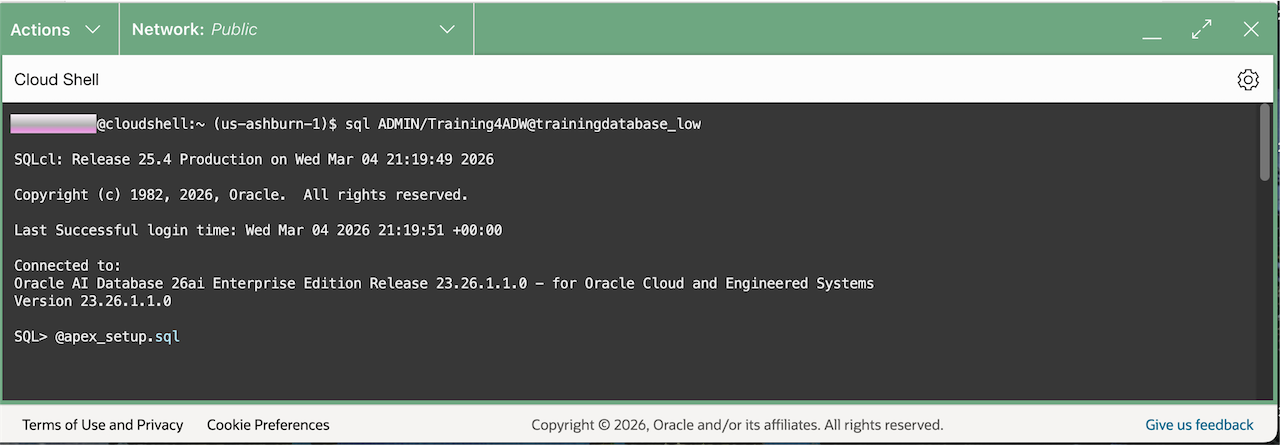
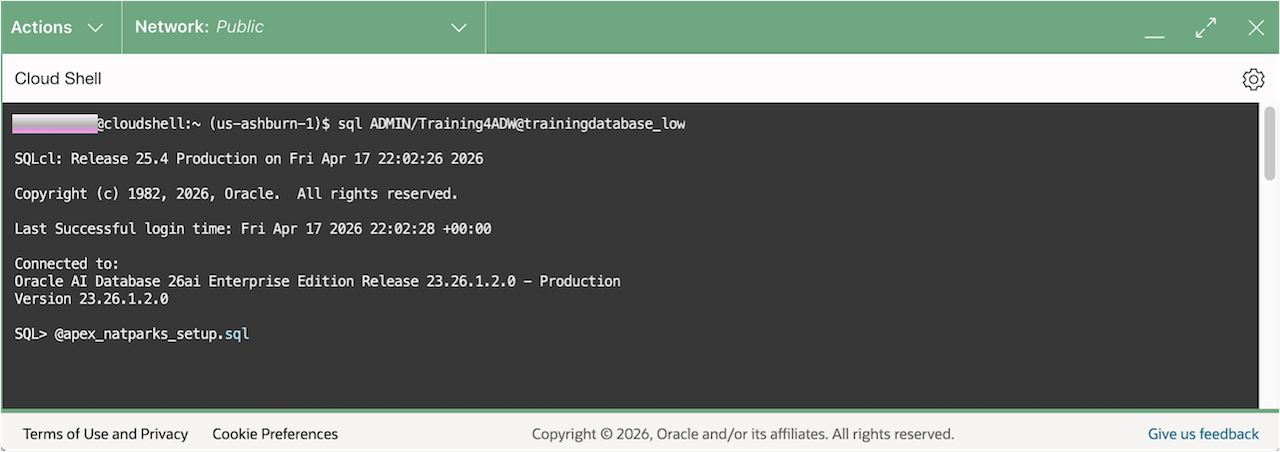
Fixed installation instructions for tenancy option
Fixed installation instructions for tenancy option.

diff --git a/ai-vector-search-fundamentals/adb_setup/create-database-users.md b/ai-vector-search-fundamentals/adb_setup/create-database-users.md
@@ -2,17 +2,17 @@
 
 ## Introduction
 
-This lab walks you through the steps to get started with Database Actions. You will create the NATIONALPARKS user and provide that user the access to run the Getting Started with AI Vector Search lab. You will then load the ONNX models, create the NATIONALPARKS schema, and then setup up the APEX demo that will be used in the last lab.
+This lab walks you through the steps to get started with Database Actions. You will create the NATIONALPARKS and INCIDENT users and provide the users with the access to run the Getting Started with AI Vector Search lab. You will then load the ONNX models, create the schemas, and then setup up the APEX demos.
 
 Estimated Time: X
 
 ### Objectives
 
 - Learn how to setup the required database roles in Database Actions.
-- Learn how to create a database user in Database Actions.
+- Learn how to create database users in Database Actions.
 - Load the ONNX embedding models
-- Import the NATIONALPARKS schema
-- Import the APEX workspace and application
+- Import the the workshop schemas
+- Import the APEX workspaces and applications
 
 ### Prerequisites
 
@@ -43,11 +43,11 @@ Although you can connect to your Oracle Autonomous Database using desktop tools 
 
     ![SQL Worksheet.](https://oracle-livelabs.github.io/common/building-blocks/tasks/adb/images/adb-sql-worksheet-opening-tour.png " ")
 
-## Task 2: Create a database user
+## Task 2: Create database users
 
-Now create the **NATIONALPARKS** user and provide Database Actions access for this user.
+In this task you will create the **NATIONALPARKS** and **INCIDENT** users and provide Database Actions access for them.
 
-When you create a new Autonomous Database, you automatically get an account called ADMIN that is your super administrator user. In this task we will need to create a separate new user for the lab. This section will guide you through this process using the "New User" wizard within the Database Actions set of tools.
+When you create a new Autonomous Database, you automatically get an account called ADMIN that is your administrator user. In this task we will need to create separate new users for the workshop. This section will guide you through this process using the "New User" wizard within the Database Actions set of tools.
 
 1. Navigate to the Details page of the Autonomous Database you previously provisioned. In this example, the database name is **[](var:db_name)**, but yours may be different depending on what name you chose. Click the **Database Actions -> Database Users** button.
 
@@ -59,7 +59,7 @@ When you create a new Autonomous Database, you automatically get an account call
 
     ![Create User button highlighted on the Database Users page](https://oracle-livelabs.github.io/common/building-blocks/tasks/adb/images/db-actions-click-create-user.png " ")
 
-3. The **Create User** form will appear on the right-hand side of your browser window. Use the settings below to complete the form:
+3. The **Create User** form will appear on the right-hand side of your browser window. Use the settings below to complete the form for the NATIONALPARKS user:
 
     - User Name: **NATIONALPARKS**
     - Password:  **Welcome_12345**
@@ -75,7 +75,26 @@ When you create a new Autonomous Database, you automatically get an account call
 
     Click **Create User** at the bottom of the form.
 
-    ![The Create User dialog](images/adb_user_create.png " ")
+    ![The Create User dialog](images/adb_nationalparks_create.png " ")
+
+4. Click the **+ Create User** button again and create a second user on the **Create User** form. Use the settings below to complete the form for the INCIDENT user:
+
+    - User Name: **INCIDENT**
+    - Password:  **Welcome_12345**
+    - Quota on tablespace DATA: UNLIMITED
+
+    - Leave the **Password Expired** toggle button as off (Note: this controls whether the user is prompted to change their password when they next log in).
+    - Leave the **Account is Locked** toggle button as off. 
+
+    - Leave the **Graph** toggle button as off.
+    - Toggle the **Web Access** button to **On**.
+    - Leave the **OML** button as off.
+    - Toggle the **REST, GraphQL, MondoDB, and Web access** button to **On**.
+
+    Click **Create User** at the bottom of the form.
+
+    ![The Create User dialog](images/adb_incident_create.png " ")
+
 
 ## Task 3: Grant database privileges
 
@@ -83,7 +102,9 @@ When you create a new Autonomous Database, you automatically get an account call
 
     ![SQL worksheet](images/sql_admin_worksheet.png)
 
-2. If you created the NATIONALPARKS user in the OCI console as described above then the following roles and REST enable script have already been run. If you created the user with a CREATE USER statement or you are using an existing user then the following should be run for that user:
+2. If you created the NATIONALPARKS and INCIDENT users in the OCI console as described above then the following roles and REST enable script have already been run. If you created the users with a CREATE USER statement or you are using an existing user then the following should be run for both users.
+
+    For the NATIONALPARKS user:
 
     ```sql
     <copy>
@@ -111,7 +132,35 @@ When you create a new Autonomous Database, you automatically get an account call
     </copy>
     ```
 
-3. Proceed with **Grant privileges** by copying and pasting the following into the Database Actions SQL window:
+    For the INCIDENT user:
+
+    ```sql
+    <copy>
+    -- ADD ROLES
+    GRANT CONNECT TO INCIDENT;
+    GRANT RESOURCE TO INCIDENT;
+
+    -- REST ENABLE
+    BEGIN
+      ORDS_ADMIN.ENABLE_SCHEMA(
+        p_enabled => TRUE,
+        p_schema => 'INCIDENT',
+        p_url_mapping_type => 'BASE_PATH',
+        p_url_mapping_pattern => 'incident',
+        p_auto_rest_auth=> TRUE
+      );
+      -- ENABLE DATA SHARING
+      C##ADP$SERVICE.DBMS_SHARE.ENABLE_SCHEMA(
+        SCHEMA_NAME => 'INCIDENT',
+        ENABLED => TRUE
+      );
+      commit;
+    END;
+    /
+    </copy>
+    ```
+
+3. Proceed with **Grant privileges** by copying and pasting the following into the Database Actions SQL window for the NATIONALPARKS user:
 
     ```sql
     <copy>
@@ -130,11 +179,33 @@ When you create a new Autonomous Database, you automatically get an account call
 
     **Note:** Run the entire script by clicking on the "Run Script" button.
 
-    ![grant privileges](images/grant_privileges.png " ")
+    ![grant privileges](images/grant_natparks_privileges.png " ")
 
-4. Confirm that you can login with the new user.
+4. Use the following **Grant privileges** for the INCIDENT user:
 
-    This will require that you log out of the ADMIN user, click on the down error next to the ADMIN user name at the top right of the screen and click "Sign Out". You should then sign in as the NATIONALPARKS user with the password of "Welcome_12345".
+    ```sql
+    <copy>
+    -- Privileges
+    GRANT ORDS_RUNTIME_ROLE TO incident;
+    GRANT EXECUTE ON dbms_vector TO incident;
+    GRANT EXECUTE ON DBMS_NETWORK_ACL_ADMIN TO incident;
+    GRANT CREATE mining model TO incident;
+    GRANT SELECT ANY mining model TO incident;
+     </copy>
+    ```
+
+    **Note:** Run the entire script by clicking on the "Run Script" button.
+
+    ![grant privileges](images/grant_incident_privileges.png " ")
+
+
+5. Confirm that you can login with the new users.
+
+    This will require that you log out of the ADMIN user, click on the down error next to the ADMIN user name at the top right of the screen and click "Sign Out". You should then sign in as the INCIDENT user with the password of "Welcome_12345".
+
+    ![NATIONALPARKS](images/incident_login.png)
+
+    You should also sign in as the NATIONALPARKS user with the password of "Welcome_12345".
 
     ![NATIONALPARKS](images/nationalparks_login.png)
 
@@ -142,11 +213,11 @@ When you create a new Autonomous Database, you automatically get an account call
 
 ## Task 4: Copy ONNX Model
 
-1. Now that you are logged in as the NATIONALPARKS user bring up a Database Actions SQL worksheet. You can do this by selecting the **Development** tab and the **SQL** option from the pop-up menu or navigate to the main menu in the upper left corner of the screen and choose **SQL** from the **</> Development** menu.
+1. Log in as the NATIONALPARKS user and bring up a Database Actions SQL worksheet. You can do this by selecting the **Development** tab and the **SQL** option from the pop-up menu or navigate to the main menu in the upper left corner of the screen and choose **SQL** from the **</> Development** menu.
 
     ![sqldev browser](images/sql_np_worksheet.png " ")
 
-2. Copy the two files below from Object Storage to the DATA\_PUMP\_DIR directory by copying the script below, paste it into the Database Actions SQL window and then click on the "Run Script" button:
+2. Copy the file below from Object Storage to the DATA\_PUMP\_DIR directory by copying the script below, paste it into the Database Actions SQL window and then click on the "Run Script" button:
 
     ```sql
     <copy>
@@ -163,19 +234,19 @@ When you create a new Autonomous Database, you automatically get an account call
 
     ![import onnx files](images/import_onnx.png " ")
 
-## Task 5: Import Schema into the NATIONALPARKS user
+## Task 5: Import Schemas
 
-As the NATIONALPARKS user you will import the NATIONALPARKS schema in the next step.
+As the ADMIN user you will import the NATIONALPARKS and INCIDENT schemas in the next step.
 
-1. Import the NATIONALPARKS tables by copying the script below and pasting it into the Database Actions SQL window and click run script:
+1. Import the NATIONALPARKS and INCIDENT schemas by copying the script below and pasting it into the Database Actions SQL window and click run script:
 
     ```sql
     <copy>
     DECLARE
       l_job_state      VARCHAR2(1000);
       l_job_handle     NUMBER;
-      dumpFile         VARCHAR2(1024)  := 'https://c4u04.objectstorage.us-ashburn-1.oci.customer-oci.com/p/S2yHFvCO0Ed98mEjDA-LAothF_19TCZbocexbBDqCR4Em6ENLaIkNyKso5GLxBBi/n/c4u04/b/livelabsfiles/o/natparks2.dmp';
-      logFile          VARCHAR2(1024)  := 'natparks2_imp.log';
+      dumpFile         VARCHAR2(1024)  := 'https://objectstorage.us-ashburn-1.oraclecloud.com/p/ciOj8VAWAqfZuRg4nRX56xiw578-8AJIcNVfPdvp238W4ghQRoAYvUTfiQAvCSXU/n/oradbclouducm/b/bucket-vector/o/natparks3.dmp';
+      logFile          VARCHAR2(1024)  := 'natparks3_imp.log';
       logDir           VARCHAR2(20)     := 'DATA_PUMP_DIR';
       logType          NUMBER          := dbms_datapump.ku$_file_type_log_file;
     BEGIN
@@ -192,7 +263,7 @@ As the NATIONALPARKS user you will import the NATIONALPARKS schema in the next s
 
 ## Task 6: Import APEX Demo Workspace and Application
 
-In this task you will import the workshop's APEX workspace and two applications:
+In this task you will import the workshop's APEX workspaces and applications:
 
 1. Go to the ADB page and click on the Developers Tools icon at the top of the page and select "Cloud Shell" to create a cloud shell environment.
 
@@ -209,6 +280,10 @@ In this task you will import the workshop's APEX workspace and two applications:
     wget https://objectstorage.us-ashburn-1.oraclecloud.com/p/idpwCyi_u7mUdkPrRzucNrXrvLL4CN79CasXCMYsWZD502NajL4HG4rJlFg-x1gr/n/oradbclouducm/b/bucket-vector/o/apex_workspace_natparks.sql
 
     wget https://objectstorage.us-ashburn-1.oraclecloud.com/p/0nnZRnmOD7TeYI5xso7lJmS07kra4IcWbNLHixEtAPkEXdp4ecoRDS39A2QQFgkq/n/oradbclouducm/b/bucket-vector/o/apex_natparks_f108.sql
+
+    wget https://objectstorage.us-ashburn-1.oraclecloud.com/p/W5ypTf50JO99t2uRgghHZnOcJbobXgRaBsExGugWRAlW4IvJUK7JZWQ8Kh9radzP/n/oradbclouducm/b/bucket-vector/o/apex_workspace_incident.sql
+
+    wget https://objectstorage.us-ashburn-1.oraclecloud.com/p/HJhvmWOUNLGLq-uzScjRkNVw-CjUqINHP4YetQMla0c3QwWbp_i7rxMlJ-YJETOv/n/oradbclouducm/b/bucket-vector/o/apex_incident_f101.sql
     </copy>
     ```
 
@@ -239,43 +314,19 @@ In this task you will import the workshop's APEX workspace and two applications:
 
     ![list tnsnames](images/list_tnsnames.png)
 
-4. Copy the following code to an editor and make the appropriate changes for the credential parameters. Save the file with a name like **apex_setup.sql**. You will run this script in the next step.
+4. Copy the following code to an editor and make the appropriate changes for the credential parameters. Save the file with a name like **apex\_natparks\_setup.sql**. You will run this script in a following step.
 
     ```[]
     <copy>
-    -- Use this to prevent getting a remote server error message.
     BEGIN
-       -- first set the workspace
+      -- first set the workspace
       APEX_UTIL.SET_WORKSPACE(P_WORKSPACE => 'NATIONALPARKS');
-      APEX_APPLICATION_INSTALL.SET_REMOTE_SERVER(
-        P_STATIC_ID => 'oci_gen_ai',
-        P_BASE_URL => 'https://inference.generativeai.us-chicago-1.oci.oraclecloud.com');
       COMMIT;
     END;
     /
     @apex_workspace_natparks.sql
     @apex_natparks_f108.sql
     BEGIN
-       -- This is required to set the OCIDs for the new environment
-       -- so that the GenAI access will work
-
-       -- first set the workspace
-       apex_util.set_workspace(p_workspace => 'NATIONALPARKS');
-
-      -- set_persistent_credentials for "credentials_for_oci_gen_ai"
-      -- p_credential_static_id = Static ID
-      -- p_client_id = OCI User ID
-      -- p_client_secret = OCI Private Key
-      -- p_namespace = OCI Tenancy OCID
-      -- p_fingerprint = OCI Public Key Fingerprint
-      --
-      apex_credential.set_persistent_credentials (
-          p_credential_static_id => 'credentials_for_oci_gen_ai',
-          p_client_id => 'ocid1.user.oc1..  ',
-          p_client_secret => '  ',
-         p_namespace => 'ocid1.tenancy.oc1..  ',
-         p_fingerprint => '  ' );
-      --
       APEX_INSTANCE_ADMIN.SET_PARAMETER('ALLOW_PUBLIC_FILE_UPLOAD','Y');
       COMMIT;
     END;
@@ -283,7 +334,48 @@ In this task you will import the workshop's APEX workspace and two applications:
     </copy>
     ```
 
-5. Connect to SQLcl with the ADMIN user using the TNS string from the tnsnames.ora file created in the previous step and run the script you created in the previous step:
+5. Copy the following code to an editor and make the appropriate changes for the credential parameters. Save the file with a name like **apex\_incident\_setup.sql**. You will run this script in a following step.
+
+    ```[]
+    <copy>
+    BEGIN
+      -- first set the workspace
+      APEX_UTIL.SET_WORKSPACE(P_WORKSPACE => 'INCIDENT');
+      -- Use this to prevent getting a remote server error message.
+      APEX_APPLICATION_INSTALL.SET_REMOTE_SERVER(
+        P_STATIC_ID => 'oci_gen_ai',
+        P_BASE_URL => 'https://inference.generativeai.us-chicago-1.oci.oraclecloud.com');
+      COMMIT;
+    END;
+    /
+    @apex_workspace_incident.sql
+    @apex_incident_f101.sql
+    BEGIN
+      -- This is required to set the OCIDs for the new environment
+      -- so that the GenAI access will work
+      --
+      -- first set the workspace
+      apex_util.set_workspace(p_workspace => 'INCIDENT');
+      --
+      -- set_persistent_credentials for "credentials_for_oci_gen_ai"
+      -- p_credential_static_id = Static ID
+      -- p_client_id = OCI User ID
+      -- p_client_secret = OCI Private Key
+      -- p_namespace = OCI Tenancy OCID
+      -- p_fingerprint = OCI Public Key Fingerprint
+      apex_credential.set_persistent_credentials (
+        p_credential_static_id => 'credentials_for_oci_gen_ai',
+        p_client_id => 'ocid1.user.oc1..  ',
+        p_client_secret => '  ',
+        p_namespace => 'ocid1.tenancy.oc1..  ',
+        p_fingerprint => '  ' );
+      COMMIT;
+    END;
+    /
+    </copy>
+    ```
+
+6. Connect to SQLcl with the ADMIN user using the TNS string from the tnsnames.ora file created in  step 3 and run both of the scripts you created in the steps 4 and 5:
 
     ![run sqlcl](images/run_sqlcl.png)
 

diff --git a/ai-vector-search-fundamentals/rag/rag.md b/ai-vector-search-fundamentals/rag/rag.md
@@ -40,7 +40,9 @@ This lab assumes you have:
 
 * An Oracle Account (oracle.com account)
 * Some familiarity with Oracle SQL and AI Vector Search
-* Run the Vector Embedding Lab
+* Run the Introduction Lab (Recommended)
+* Run the Vector Embeddings Lab (Required)
+* Run the Exhaustive Search Lab (Recommended)
 
 ### About Retrieval Augmented Generation
 
@@ -95,7 +97,7 @@ In this next task we will create vector embeddings on the INCIDENT\_TEXT column 
     ```[]
     <copy>
     UPDATE support_incidents
-    SET incident_vector = VECTOR_EMBEDDING(minilm_l12_v2 USING incident_text AS data);
+    SET incident_vector = VECTOR_EMBEDDING(nationalparks.minilm_l12_v2 USING incident_text AS data);
     COMMIT;
     </copy>
     ```
@@ -292,7 +294,7 @@ In this task we will run a Generative AI query to ask the LLM a simple support r
     EXEC :user_query := 'The Camera App times out during authentication';
     SELECT incident_text, resolution_notes FROM support_incidents
     WHERE status IN ('Closed','Resolved') AND resolution_notes IS NOT NULL
-    ORDER BY VECTOR_DISTANCE(incident_vector, VECTOR_EMBEDDING(minilm_l12_v2 USING :user_question AS DATA), COSINE)
+    ORDER BY VECTOR_DISTANCE(incident_vector, VECTOR_EMBEDDING(nationalparks.minilm_l12_v2 USING :user_question AS DATA), COSINE)
     FETCH FIRST 5 ROWS ONLY;
     </copy>
     ```
@@ -361,10 +363,10 @@ In this task we will run a Generative AI query to ask the LLM a simple support r
       WITH
         top_k AS
           (SELECT 'Problem: ' || incident_text || ' Resolution: ' || resolution_notes || ' Similarity score: ' || 
-             VECTOR_DISTANCE(incident_vector, VECTOR_EMBEDDING(minilm_l12_v2 USING user_question AS data), COSINE) AS incident_info
+             VECTOR_DISTANCE(incident_vector, VECTOR_EMBEDDING(nationalparks.minilm_l12_v2 USING user_question AS data), COSINE) AS incident_info
            FROM support_incidents
            WHERE status IN ('Closed','Resolved') AND resolution_notes IS NOT NULL
-           ORDER BY VECTOR_DISTANCE(incident_vector, VECTOR_EMBEDDING(minilm_l12_v2 USING user_question AS data), COSINE)
+           ORDER BY VECTOR_DISTANCE(incident_vector, VECTOR_EMBEDDING(nationalparks.minilm_l12_v2 USING user_question AS data), COSINE)
            FETCH FIRST 5 ROWS ONLY),
         llm_prompt AS
           (SELECT ('Question: ' ||

diff --git a/ai-vector-search-fundamentals/6-apex_demo/apex_demo.md b/ai-vector-search-fundamentals/6-apex_demo/apex_demo.md
@@ -28,6 +28,8 @@ This lab assumes you have:
 
 * An Oracle Account (oracle.com account)
 * Some familiarity with Oracle SQL and AI Vector Search
+* Run the Introduction Lab (Recommended)
+* Run the Vector Embeddings Lab (Required)
 
 ## Task 1: Connecting to the APEX application
 
